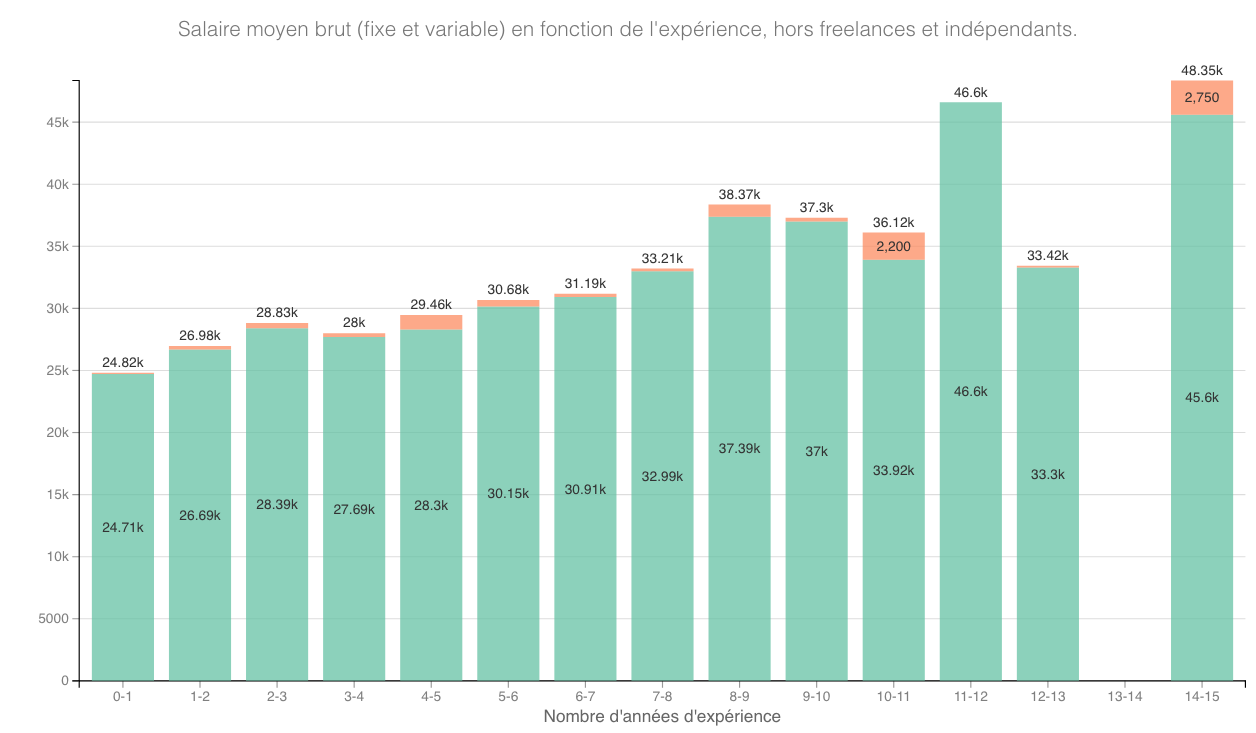
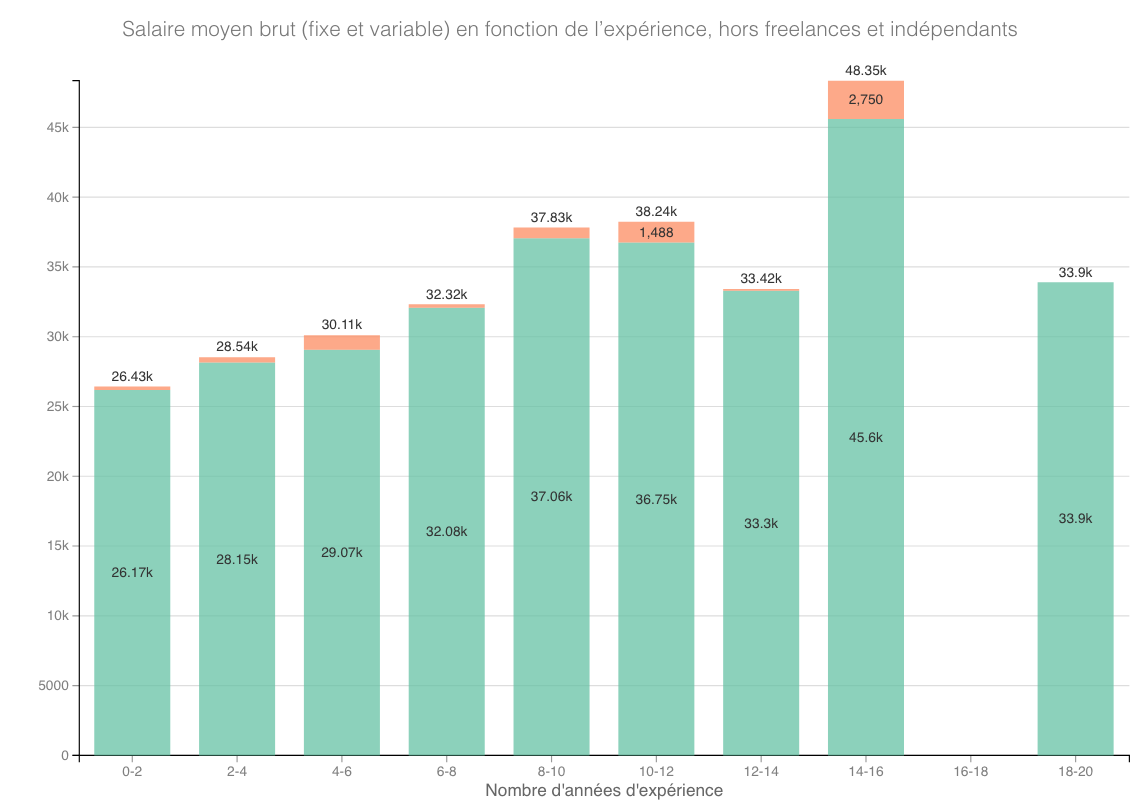
Update charts

Changed region(s): [[0.0307, 0.03, 0.9825, 0.9905]]

diff --git a/_posts/2018-11-24-etude-salariale-2018.md b/_posts/2018-11-24-etude-salariale-2018.md
@@ -2,7 +2,7 @@
 classes: wide
 title:  "Résultats Préliminaires 2018"
 ---
-**Depuis le 30 octobre 2018**, nous avons été **plus de 225** à répondre à l'appel. Pour gagner en pertinence, n'hésitez pas à partager votre expérience en répondant sur **[cette page](https://framaforms.org/etude-salaire-2018-paysagiste-concepteur-1538819660) d'ici le 31 mars 2019** (date de clôture de l'étude).
+**Depuis le 30 octobre 2018**, nous avons été **plus de 243** à répondre à l'appel. Pour gagner en pertinence, n'hésitez pas à partager votre expérience en répondant sur **[cette page](https://framaforms.org/etude-salaire-2018-paysagiste-concepteur-1538819660) d'ici le 31 mars 2019** (date de clôture de l'étude).
 
 ## Quelle est la répartition des salaires parmi les répondants ?
 
@@ -28,37 +28,37 @@ Salaire moyen brut (fixe et variable) en fonction de l'expérience et de la rég
 
 **Province**
 
-Sur la base de 134 réponses
+Sur la base de 145 réponses
 
-| Type de poste actuel / Nombre d'années d'expérience  |  0-1  |  1-2  |   2-3   |  3-4  |  4-5  |  5-6  |  6-7  |  7-8  |  8-9  |  9-10 |
-|------------------------------------------------------|:-----:|:-----:|:-------:|:-----:|:-----:|:-----:|:-----:|:-----:|:-----:|:-----:|
-| Directeur(trice) d'agence                            |       |       |         |       |       | 38850 |       |       | 60000 |       |
-| Assistant(e) d'étude                                 |       |       |  34350  |       | 28850 |       |       |       |       |       |
-| Chargé(e) d'étude confirmé                           |       |       |         |       |       |       |       |       |       | 31200 |
-| Chef(fe) de projet                                   |       | 24610 |  32278  | 34500 |       | 30693 | 25500 | 41000 |       |       |
-| Autre                                                | 24960 | 34000 |  24850  |       |       |       | 36000 |       |       | 40000 |
-| Chef(fe) de projet débutant                          |       | 25654 |  29640  | 35000 | 31550 | 31700 |       |       |       |       |
-| Chargé(e) d'étude                                    |       | 30920 |  28860  | 27332 | 28040 |       |       | 36800 |       |       |
-| Assistant(e) de projet                               |       | 27729 |  29912  | 31200 |       | 32600 |       |       |       |       |
-| Chargé(e) d'étude débutant                           | 27865 | 27880 |  30300  | 29000 |       |       |       |       |       |       |
+| Type de poste actuel / Nombre d'années d'expérience |  0-1  |  1-2  |  2-3  |  3-4  |  4-5  |  5-6  |  6-7  |  7-8  |  8-9  |  9-10 |
+|-----------------------------------------------------|:-----:|:-----:|:-----:|:-----:|:-----:|:-----:|:-----:|:-----:|:-----:|:-----:|
+| Directeur(trice) d'agence                           |       |       | 50804 |       | 38500 |       |       | 40850 |       |       |
+| Chargé(e) d'étude confirmé                          |       |       |       | 27300 | 28790 |       |       |       | 38133 | 28200 |
+| Chef(fe) de projet confirmé                         |       |       |       |       |       |       |       | 21600 |       | 39450 |
+| Chef(fe) de projet                                  |       | 28267 | 25438 | 30000 | 31206 |       | 31800 | 28080 | 28810 | 37097 |
+| Chargé(e) d'étude                                   | 23975 | 28585 | 27433 | 26130 | 30140 | 28452 |       | 30941 | 38500 |       |
+| Autre                                               |       | 25204 | 29900 | 18000 | 24606 | 19500 | 29000 |       | 27800 |       |
+| Chef(fe) de projet débutant                         | 29890 | 23051 | 25740 | 26673 |       |       |       |       |       |       |
+| Dessinateur(trice) projeteur                        |       | 21600 | 27084 |       |       |       |       |       |       |       |
+| Chargé(e) d'étude débutant                          | 23327 | 24426 | 27951 |       |       |       |       |       |       |       |
+| Assistant(e) de projet                              | 22750 | 23460 | 25392 | 23371 | 29840 | 32000 |       |       |       |       |
+| Directeur(trice) de société                         |       |       |       | 15000 | 26000 |       | 23400 |       |       |       |
 
 **Paris et île-de-France**
 
-Sur la base de 57 réponses.
+Sur la base de 63 réponses.
 
-| Type de poste actuel / Nombre d'années d'expérience  |  0-1  |  1-2  |  2-3  |  3-4  |  4-5  |  5-6  |  6-7  |  7-8  |  8-9  |  9-10 |
-|------------------------------------------------------|:-----:|:-----:|:-----:|:-----:|:-----:|:-----:|:-----:|:-----:|:-----:|:-----:|
-| Directeur(trice) d'agence                            |       |       | 50804 |       | 38500 |       |       | 40850 |       |       |
-| Chargé(e) d'étude confirmé                           |       |       |       | 27300 | 28790 |       |       |       | 38133 | 28200 |
-| Chef(fe) de projet confirmé                          |       |       |       |       |       |       |       | 21600 |       | 39450 |
-| Chef(fe) de projet                                   |       | 31000 | 25438 | 30000 | 31206 |       | 31800 | 28080 | 28810 | 36350 |
-| Chargé(e) d'étude                                    | 24050 | 29602 | 27433 | 26064 | 30140 | 28452 |       | 30941 | 38500 |       |
-| Chef(fe) de projet débutant                          | 31200 | 23051 | 25740 | 26673 |       |       |       |       |       |       |
-| Dessinateur(trice) projeteur                         |       | 21600 | 27084 |       |       |       |       |       |       |       |
-| Autre                                                |       | 25204 | 29900 | 18000 | 22625 | 19500 | 29000 |       | 27800 |       |
-| Chargé(e) d'étude débutant                           | 21003 | 24426 | 27951 |       |       |       |       |       |       |       |
-| Assistant(e) de projet                               | 22750 | 23460 | 25392 | 23371 | 29840 |       |       |       |       |       |
-| Directeur(trice) de société                          |       |       |       | 15000 | 21000 |       | 23400 |       |       |       |
+| Type de poste actuel / Nombre d'années d'expérience |  0-1  |  1-2  |  2-3  |  3-4  |  4-5  |  5-6  |  6-7  |  7-8  |  8-9  |  9-10 |
+|-----------------------------------------------------|:-----:|:-----:|:-----:|:-----:|:-----:|:-----:|:-----:|:-----:|:-----:|:-----:|
+| Directeur(trice) d'agence                           |       |       |       |       |       | 38850 |       |       | 60000 |       |
+| Assistant(e) d'étude                                |       |       | 34350 |       | 28850 |       |       |       |       |       |
+| Chef(fe) de projet                                  |       | 24610 | 32278 | 34500 | 34000 | 30693 | 25500 | 41000 | 31180 |       |
+| Chargé(e) d'étude confirmé                          |       |       |       |       |       |       |       |       |       | 31200 |
+| Chef(fe) de projet débutant                         |       | 25654 | 29640 | 35000 | 31550 | 31700 | 36000 |       |       |       |
+| Autre                                               | 24960 | 34000 | 24850 |       |       |       | 36000 |       |       | 40000 |
+| Chargé(e) d'étude                                   |       | 29272 | 28860 | 27332 | 28040 |       |       | 36800 |       |       |
+| Assistant(e) de projet                              |       | 27729 | 29430 | 31200 |       | 32600 |       |       |       |       |
+| Chargé(e) d'étude débutant                          | 28004 | 27880 | 30300 | 29000 |       |       |       |       |       |       |
 
 ## Quelle est la répartition des réponses en fonction des écoles et des années de diplôme ?
 

diff --git a/index.md b/index.md
@@ -4,7 +4,7 @@ classes: wide
 author_profile: true
 ---
 
-**Depuis le 30 octobre 2018**, nous avons été **plus de 225** à répondre à l'appel. Pour gagner en pertinence, n'hésitez pas à partager votre expérience en répondant sur **[cette page](https://framaforms.org/etude-salaire-2018-paysagiste-concepteur-1538819660) d'ici le 31 mars 2019** (date de clôture de l'étude).
+**Depuis le 30 octobre 2018**, nous avons été **plus de 243** à répondre à l'appel. Pour gagner en pertinence, n'hésitez pas à partager votre expérience en répondant sur **[cette page](https://framaforms.org/etude-salaire-2018-paysagiste-concepteur-1538819660) d'ici le 31 mars 2019** (date de clôture de l'étude).
 
 Les résultats et analyses préliminaires sont disponibles sur **[cette page](https://pocman.github.io/etude-salariale-paysagiste-concepteur/etude-salariale-2018/)**.
 
